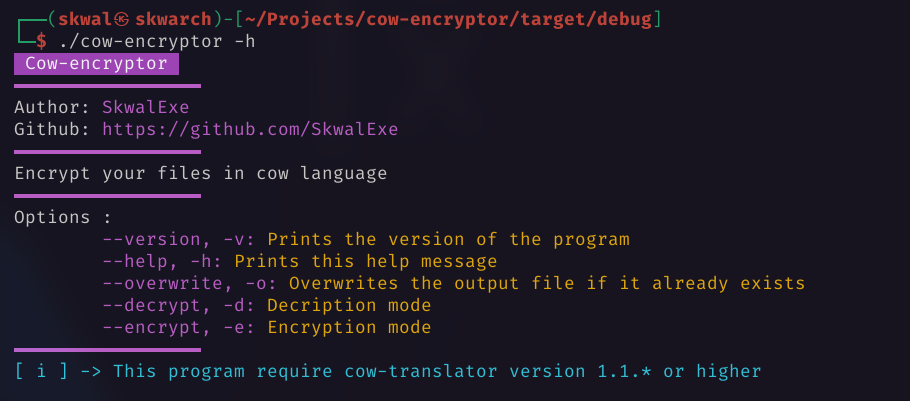
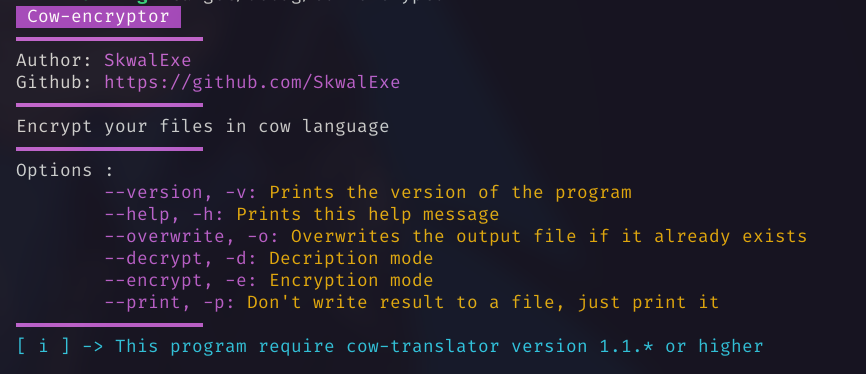
add --print option

Changed region(s): [[0.0, 0.5588, 0.9353, 0.9706], [0.0, 0.0, 0.7483, 0.5294], [0.0, 0.5294, 0.1247, 0.5588]]

diff --git a/src/main.rs b/src/main.rs
@@ -150,6 +150,7 @@ fn main() {
     let mut command = "default";
     let mut file_path = String::new();
     let mut overwrite = false;
+    let mut write = true;
 
     let mut args: Vec<String> = std::env::args().collect();
     args.remove(0); // remove the first argument, which is the name of the binary
@@ -177,6 +178,10 @@ fn main() {
                 command = "help";
                 args.remove(0);
             }
+            "-p" | "--print" => {
+                write = false;
+                args.remove(0);
+            }
             _ => {
                 // check if the argument is a file path
 
@@ -202,29 +207,10 @@ fn main() {
             check_cow_translator_exists(); // check if cow-translator is installed
             check_version();
 
-            let cow_file = format!("{}.cow", &file_path);
-
-            if Path::new(cow_file.as_str()).is_file() {
-                if !overwrite {
-                    error(format!("Cow file already exists : {}", &cow_file).as_str());
-                    error("Please use --overwrite to overwrite the file");
-                    exit(1);
-                }
-            }
+            
 
             info(format!("Encrypting file : {}", &file_path).as_str());
-            let mut encrypted_file = match OpenOptions::new()
-                .write(true)
-                .truncate(true)
-                .create(true)
-                .open(cow_file.as_str())
-            {
-                Ok(file) => file,
-                Err(e) => {
-                    error(format!("Error while opening file : {}", e).as_str());
-                    exit(1);
-                }
-            };
+            
 
             let mut original_file = match File::open(&file_path) {
                 Ok(file) => file,
@@ -264,15 +250,42 @@ fn main() {
                     exit(1);
                 }
             };
-            match encrypted_file.write_all(encrypted_file_content.as_bytes()) {
-                Ok(_) => success("Successfully wrote file"),
-                Err(e) => {
-                    error(format!("Error while writing file : {}", e).as_str());
-                    exit(1);
-                }
-            };
+            
+            if write {
+                let cow_file = format!("{}.cow", &file_path);
 
-            success(format!("Finished : {}", &cow_file).as_str());
+                if Path::new(cow_file.as_str()).is_file() {
+                    if !overwrite {
+                        error(format!("Cow file already exists : {}", &cow_file).as_str());
+                        error("Please use --overwrite to overwrite the file");
+                        exit(1);
+                    }
+                }
+                let mut encrypted_file = match OpenOptions::new()
+                .write(true)
+                .truncate(true)
+                .create(true)
+                .open(cow_file.as_str())
+                {
+                    Ok(file) => file,
+                    Err(e) => {
+                        error(format!("Error while opening file : {}", e).as_str());
+                        exit(1);
+                    }
+                };
+
+                match encrypted_file.write_all(encrypted_file_content.as_bytes()) {
+                    Ok(_) => success("Successfully wrote file"),
+                    Err(e) => {
+                        error(format!("Error while writing file : {}", e).as_str());
+                        exit(1);
+                    }
+                };
+                success(format!("Finished : {}", &cow_file).as_str());
+            } else {
+                println!("{}", encrypted_file_content);
+                success("Finished");
+            }
         }
         "decrypt" => {
             check_file_path(&file_path); // check if a file path is specified
@@ -288,27 +301,7 @@ fn main() {
             info(format!("Decrypting file : {}", &file_path).as_str());
 
             // remove last 4 characters from the file path
-            let decrypted_file_path = file_path.to_string().trim_end_matches(".cow").to_string();
-            if Path::new(&decrypted_file_path).is_file() {
-                if !overwrite {
-                    error(format!("File already exists : {}", &decrypted_file_path).as_str());
-                    error("Please use --overwrite to overwrite the file");
-                    exit(1);
-                }
-            }
-
-            let mut decrypted_file = match OpenOptions::new()
-                .write(true)
-                .truncate(true)
-                .create(true)
-                .open(decrypted_file_path.as_str())
-            {
-                Ok(file) => file,
-                Err(e) => {
-                    error(format!("Error while opening file : {}", e).as_str());
-                    exit(1);
-                }
-            };
+            
 
             let mut original_file = match File::open(&file_path) {
                 Ok(file) => file,
@@ -349,15 +342,42 @@ fn main() {
                 }
             };
 
-            match decrypted_file.write_all(decrypted_file_content.as_bytes()) {
-                Ok(_) => success("Successfully wrote file"),
+            
+            if write {
+                let decrypted_file_path = file_path.to_string().trim_end_matches(".cow").to_string();
+            if Path::new(&decrypted_file_path).is_file() {
+                if !overwrite {
+                    error(format!("File already exists : {}", &decrypted_file_path).as_str());
+                    error("Please use --overwrite to overwrite the file");
+                    exit(1);
+                }
+            }
+
+            let mut decrypted_file = match OpenOptions::new()
+                .write(true)
+                .truncate(true)
+                .create(true)
+                .open(decrypted_file_path.as_str())
+            {
+                Ok(file) => file,
                 Err(e) => {
-                    error(format!("Error while writing file : {}", e).as_str());
+                    error(format!("Error while opening file : {}", e).as_str());
                     exit(1);
                 }
             };
+                match decrypted_file.write_all(decrypted_file_content.as_bytes()) {
+                    Ok(_) => success("Successfully wrote file"),
+                    Err(e) => {
+                        error(format!("Error while writing file : {}", e).as_str());
+                        exit(1);
+                    }
+                };
+                success(format!("Finished : {}", &decrypted_file_path).as_str());
+            } else {
+                println!("{}", decrypted_file_content);
+                success("Finished");
+            }
 
-            success(format!("Finished : {}", &decrypted_file_path).as_str());
         }
         "help" => {
             println!("{}{} Cow-encryptor {}", BG_MAGENTA, WHITE, RESET);
@@ -388,6 +408,11 @@ fn main() {
 
             println!(
                 "\t{}--encrypt, -e: {}Encryption mode{}",
+                MAGENTA, YELLOW, RESET
+            );
+
+            println!(
+                "\t{}--print, -p: {}Don't write result to a file, just print it{}",
                 MAGENTA, YELLOW, RESET
             );
 

diff --git a/README.md b/README.md
@@ -109,6 +109,10 @@ cow-encryptor [--decrypt] secret.txt.cow
 
 The decryption mode will automatically be used if the file ends with `.cow`
 
+## --print
+
+With this option, the encrypted/decrypted file will be printed to the standard output instead if saving it to a file.
+
 # Docker 🐳
 
 ## Run the latest version
